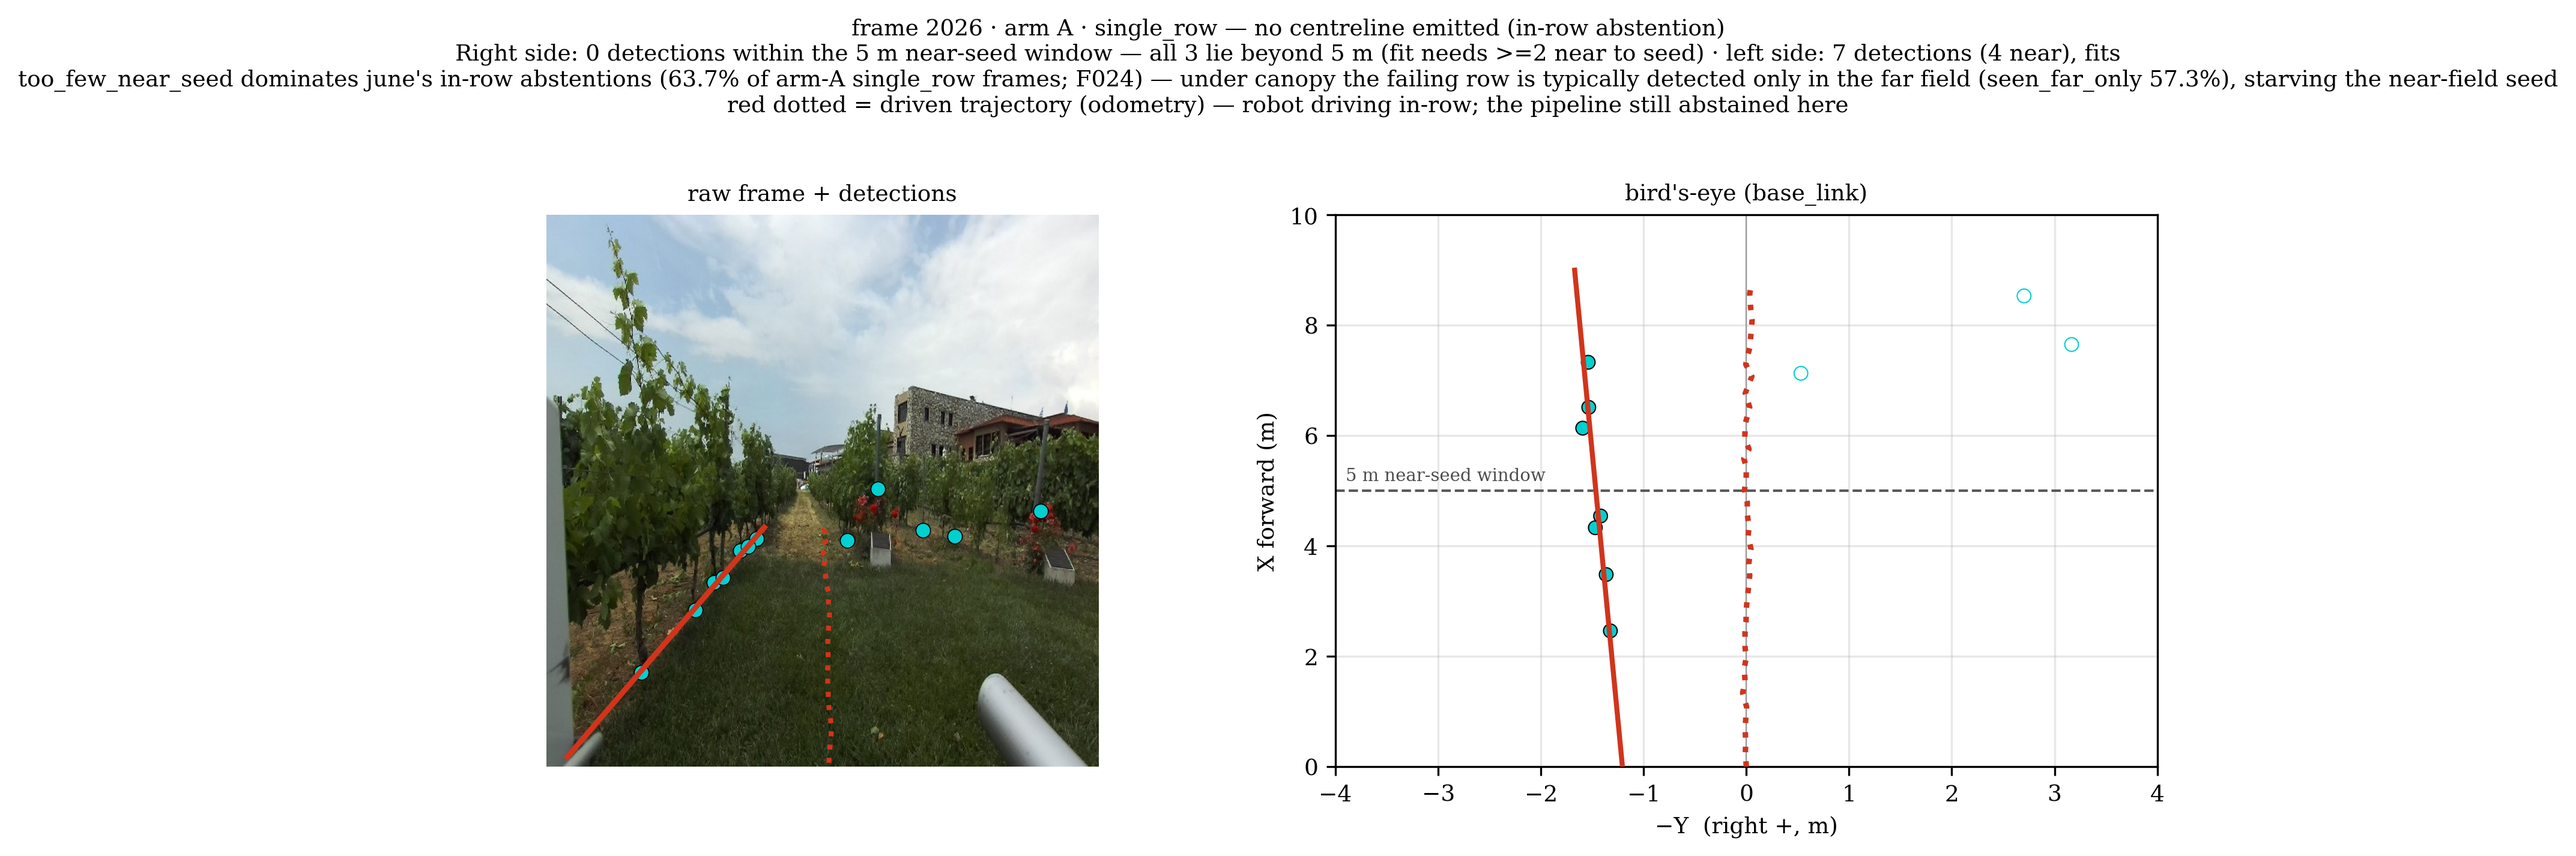
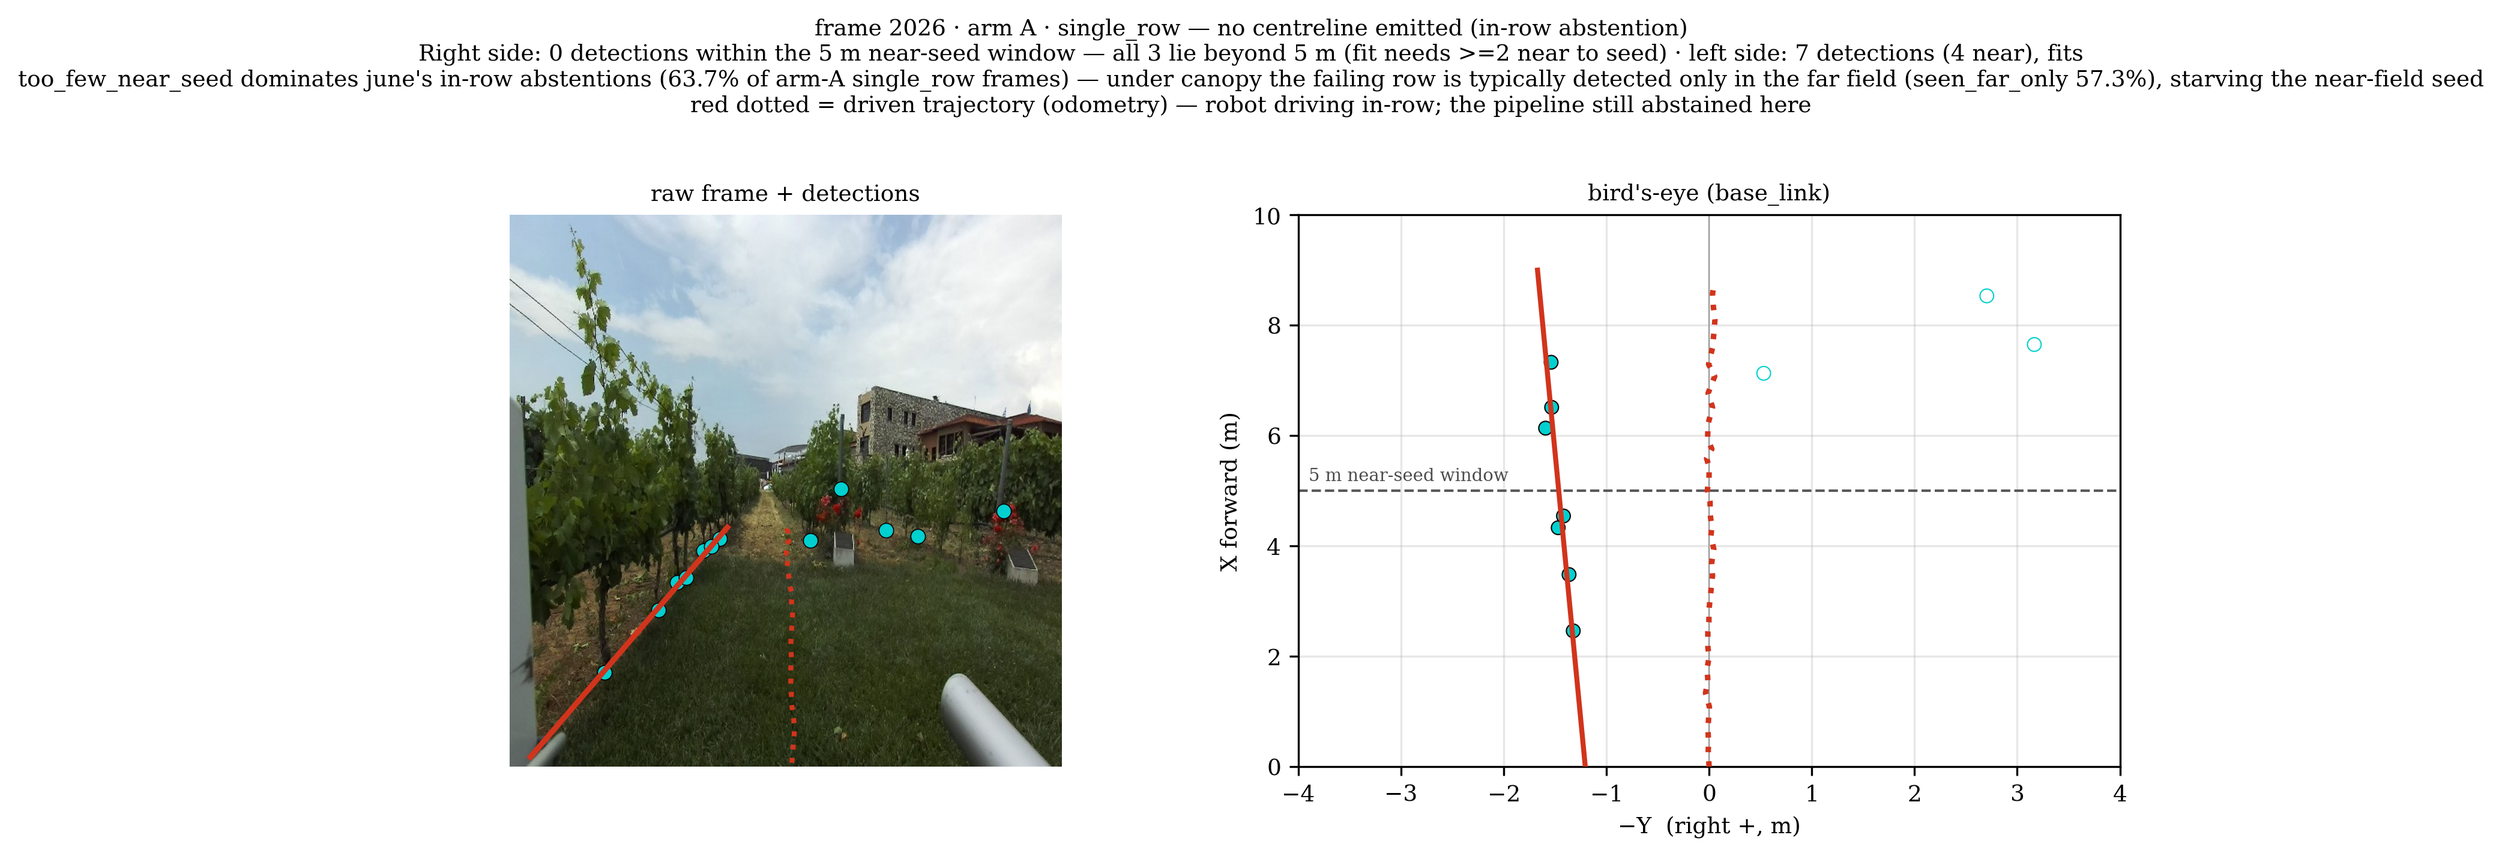
fix(figs): remove finding identifiers from rendered captions; add supplementary figures
Caption hygiene. Removes finding/decision identifiers from RENDERED figure text: F013, F017 + D047, F020 and F022 from the four cross-bag titles, and F024 from the may and june abstention captions. A figure must be readable without FINDINGS.md; the cross-references live in FIGURE_SPEC.md and in the module docstrings, which are unchanged. No remaining caption or footer carries a tag.

Three captions written when only two or three bags existed were also corrected against the four-bag data: turn is the highest-rate non-in-row category on every bag but is not ~80% throughout (76.0 / 80.6 / 36.5 / 56.4); the state gate's transition collapse is on june (48.0%), not april (70.1%); and march's all-pair GT-2 offset does not reproduce on any later bag (may resolves one pair only). Affected figures regenerated.
[…]

diff --git a/vineyard_nav/scripts/geometric/figures_supplementary.py b/vineyard_nav/scripts/geometric/figures_supplementary.py
@@ -1,0 +1,239 @@
+"""Supplementary cross-bag figures for the progress update / Notion pages.
+
+Three figures the locked per-bag set (figures.py) does not cover. They are written to the shared
+comparison directory, so the locked per-bag sets (15 figures, 13 on june) are left untouched.
+
+  python3 scripts/geometric/figures_supplementary.py --bags march april may june
+
+  1. cmp_model_outputs_<bag>.png   what each ARM ACTUALLY OUTPUTS on one scene: arm A's per-pixel
+                                   mask, arm B's instance masks, arm C's class-labelled instances.
+                                   figures.py fig2 compares the resulting centrelines; nothing showed
+                                   the raw outputs. Rendered on that bag's curated `arm_invariance`
+                                   frame (verified two_row on all three arms, privacy-screened).
+  2. cmp_season_contrast.png       a bare-vine frame beside a canopy frame, same arm, base points
+                                   drawn + counted -- makes the canopy base-point starvation visible.
+  3. cmp_coverage_trend.png        the seasonal headline, data-only from committed JSONs: two-row
+                                   coverage against the 70% viability floor, the pole contribution to
+                                   coverage (season-invariant), and base points per frame (collapses).
+
+Figures 1-2 need the model checkpoints (they re-run inference on a handful of frames); figure 3 is
+data-only and runs from the committed JSONs alone.
+"""
+from __future__ import annotations
+import sys, json, argparse
+from pathlib import Path
+
+import numpy as np
+import cv2
+import matplotlib
+matplotlib.use("Agg")
+import matplotlib.pyplot as plt
+
+PKG = Path(__file__).resolve().parents[2]
+sys.path.insert(0, str(PKG)); sys.path.insert(0, str(PKG / "scripts" / "geometric"))
+import cuda_preload  # noqa: E402,F401 — cuDNN cold-init guard; MUST precede torch (D049)
+import figures as FG  # noqa: E402  (model cache, styling, curated FRAMES registry)
+from bag_config import resolve  # noqa: E402
+
+SEED = 42
+SEASON = {"march": "bare-vine", "april": "bare-vine", "may": "canopy", "june": "canopy",
+          "july": "canopy", "september": "canopy"}
+C_BARE, C_CANOPY = "#4477aa", "#228833"
+OUT = PKG / "results/geometric/comparison/figures"
+
+
+def _out(name):
+    OUT.mkdir(parents=True, exist_ok=True)
+    return OUT / name
+
+
+def _frame(bag, key="arm_invariance"):
+    B = resolve(bag, "eligible")
+    fi = FG.FRAMES[bag][key]
+    img = cv2.imread(str(B["frames_dir"] / f"{fi:05d}.jpg"))
+    if img is None:
+        raise SystemExit(f"figures_supplementary: missing frame {fi} for bag {bag}")
+    return fi, img
+
+
+def _blend(img, mask, colour, alpha=0.45):
+    """Overlay a boolean mask on a BGR image in `colour` (matplotlib hex)."""
+    bgr = tuple(int(colour[i:i + 2], 16) for i in (5, 3, 1))    # hex RGB -> BGR
+    out = img.copy()
+    out[mask] = ((1 - alpha) * img[mask] + alpha * np.array(bgr)).astype(np.uint8)
+    return out
+
+
+def fig_model_outputs(bag):
+    """Arm A per-pixel mask | arm B instance masks | arm C class-labelled instances, one scene."""
+    fi, img = _frame(bag)
+    rgb = cv2.cvtColor(img, cv2.COLOR_BGR2RGB)
+    fig, ax = plt.subplots(1, 3, figsize=(11.4, 4.3))
+
+    # --- arm A: per-pixel binary mask (argmax over the U-Net class map) ---
+    _, net = FG._model("A", SEED)
+    x = FG._TF(image=rgb)["image"].unsqueeze(0).to(FG._DEV)
+    import torch
+    with torch.no_grad():
+        fg = (net(x).argmax(1)[0].cpu().numpy() == 1)
+    a_img = _blend(img, fg, FG.COL["binary"])
+    # how the mask becomes structures downstream: connected components >= UNET_MIN_AREA (pipeline step 2)
+    ncomp, _, stats, _ = cv2.connectedComponentsWithStats(fg.astype(np.uint8), 8)
+    nkeep = int(sum(1 for k in range(1, ncomp) if stats[k][4] >= FG.UNET_MIN_AREA))
+    ax[0].imshow(cv2.cvtColor(a_img, cv2.COLOR_BGR2RGB))
+    ax[0].set_title(f"A — U-Net binary\nper-pixel mask, no instance concept\n"
+                    f"{int(fg.sum()):,} px → {nkeep} components (≥{FG.UNET_MIN_AREA} px)", fontsize=8.5)
+
+    # --- arms B and C: per-instance masks ---
+    # distinct hues so the INSTANCE separation is visible; deliberately avoids the trunk-blue /
+    # pole-yellow of panel C, where colour is semantic rather than arbitrary
+    palette = ["#00d0d0", "#e05fd8", "#ff8c42", "#4cd964", "#a06cff", "#ff5c7a", "#00a3a3", "#c2185b"]
+    for k, arm in enumerate(("B", "C"), start=1):
+        _, m = FG._model(arm, SEED)
+        r = m.predict(source=img, conf=FG.CONF, quantize=16, device=0, verbose=False)[0]
+        vis = img.copy()
+        n = 0
+        if r.masks is not None and r.boxes is not None:
+            cls = r.boxes.cls.cpu().numpy().astype(int)
+            xy = r.boxes.xyxy.cpu().numpy()
+            area = (xy[:, 2] - xy[:, 0]) * (xy[:, 3] - xy[:, 1])
+            keep = area <= FG.BLOB_FRAC * FG.FRAME_PX * FG.FRAME_PX      # same 15% guard as the pipeline
+            for j, mk in enumerate(r.masks.data.cpu().numpy()):
+                if not keep[j]:
+                    continue
+                mm = cv2.resize(mk, (FG.FRAME_PX, FG.FRAME_PX)) > 0.5
+                col = FG.cls_col(int(cls[j])) if arm == "C" else palette[n % len(palette)]
+                vis = _blend(vis, mm, col)
+                n += 1
+        ax[k].imshow(cv2.cvtColor(vis, cv2.COLOR_BGR2RGB))
+        if arm == "B":
+            ax[k].set_title(f"B — YOLOv11-seg binary\nper-instance masks, one foreground class\n"
+                            f"{n} instances (arbitrary colour each)", fontsize=8.5)
+        else:
+            nt = int(((cls == 0) & keep).sum()); npl = int(((cls == 1) & keep).sum())
+            ax[k].set_title(f"C — YOLOv11-seg multiclass\nper-instance masks, class-labelled\n"
+                            f"{n} instances: {nt} trunk (blue) / {npl} pole (yellow)", fontsize=8.5)
+    for a in ax:
+        a.axis("off")
+    fig.suptitle(f"What each arm outputs — {bag} ({SEASON.get(bag, '?')}), frame {fi}", y=1.01)
+    fig.text(0.5, -0.02, "All three outputs are reduced to the same primitive downstream: one base point per structure "
+                         "(bottom-centre), projected to the ground plane. The row fit is class-agnostic.",
+             ha="center", va="top", fontsize=8, color="0.25")
+    fig.tight_layout()
+    p = _out(f"cmp_model_outputs_{bag}.png"); fig.savefig(p); plt.close(fig)
+    return p
+
+
+def _representative_frame(bag, coco, arm="C", seed=SEED, shortlist=60):
+    """An in-row two_row frame whose base-point count is closest to THIS BAG'S MEDIAN, and which
+    contains no identifiable people. The curated `anatomy` frames are best-case by construction, so
+    using them here would understate the seasonal difference — the median frame is the honest pick."""
+    B = resolve(bag, "eligible")
+    rows = []
+    for ln in Path(B["per_frame_csv"]).read_text().splitlines()[1:]:
+        a, s, i, cls, *_rest = ln.split(",")
+        if a == arm and int(s) == seed and cls == "two_row":
+            rows.append((int(i), int(_rest[5])))          # ... mL,mR,mc,n_base,adj,flags
+    med = float(np.median([n for _, n in rows]))
+    for i, n in sorted(rows, key=lambda r: (abs(r[1] - med), r[0]))[:shortlist]:
+        img = cv2.imread(str(B["frames_dir"] / f"{i:05d}.jpg"))
+        if img is None:
+            continue
+        r = coco.predict(source=img, conf=0.25, verbose=False)[0]
+        cl = r.boxes.cls.cpu().numpy().astype(int) if r.boxes is not None else []
+        if not any(int(k) == 0 for k in cl):              # COCO class 0 = person
+            return i, img, med
+    raise SystemExit(f"figures_supplementary: no person-free representative frame for {bag}")
+
+
+def fig_season_contrast(bare="march", canopy="june", arm="C"):
+    """One bare-vine frame beside one canopy frame, same arm, base points drawn and counted.
+    Frames are each bag's MEDIAN-detection frame (see _representative_frame), not a curated best case."""
+    from ultralytics import YOLO
+    coco = YOLO(str(PKG / "yolo11n-seg.pt"))
+    fig, ax = plt.subplots(1, 2, figsize=(9.6, 4.6))
+    for k, bag in enumerate((bare, canopy)):
+        fi, img, med = _representative_frame(bag, coco, arm)
+        base = FG.frontend(arm, SEED, img)
+        o = FG.fit_frame(base)
+        vis = img.copy()
+        for (uc, v, c) in base:
+            cv2.circle(vis, (int(uc), int(v)), 5, tuple(int(FG.cls_col(c)[i:i + 2], 16) for i in (5, 3, 1)), -1)
+            cv2.circle(vis, (int(uc), int(v)), 5, (20, 20, 20), 1)
+        ax[k].imshow(cv2.cvtColor(vis, cv2.COLOR_BGR2RGB)); ax[k].axis("off")
+        near = int(sum(1 for p in np.vstack([o["L"], o["R"]]) if p[0] <= FG.NEAR)) if len(base) else 0
+        ax[k].set_title(f"{bag} — {SEASON.get(bag,'?')}, frame {fi} (median-detection frame)\n"
+                        f"{len(base)} base points ({near} within the 5 m near-seed window) · bag median {med:.0f}",
+                        fontsize=9, color=(C_BARE if SEASON.get(bag) == "bare-vine" else C_CANOPY))
+    fig.suptitle(f"Two seasons, each at its typical frame — detections available to the row fit (arm {arm})", y=1.02)
+    fig.text(0.5, -0.02, "Canopy roughly halves the detections available to the fit (bag medians 32 -> 14). The rows stay visible; what collapses is the\n"
+                         "number of usable ground-contact points. Abstention then follows per SIDE — a frame is declined when either side alone lacks two near-field seeds.",
+             ha="center", va="top", fontsize=8, color="0.25")
+    fig.tight_layout()
+    p = _out("cmp_season_contrast.png"); fig.savefig(p); plt.close(fig)
+    return p
+
+
+def fig_coverage_trend(bags):
+    """Data-only: coverage vs the 70% floor, the pole contribution, and base points per frame."""
+    cov_a, cov_t, base_a, base_p = [], [], [], []
+    for b in bags:
+        c = json.load(open(resolve(b, "eligible")["out_dir"] / "config_analysis.json"))["cells"]
+        cov_a.append(c["agnostic"]["two_row_pct"]); cov_t.append(c["trunk_only"]["two_row_pct"])
+        base_a.append(c["agnostic"]["mean_base"]); base_p.append(c["pole_only"]["mean_base"])
+    x = np.arange(len(bags))
+    cols = [C_BARE if SEASON.get(b) == "bare-vine" else C_CANOPY for b in bags]
+    fig, ax = plt.subplots(1, 2, figsize=(11, 4.2))
+
+    # -- panel 1: coverage + the pole contribution, against the 70% floor --
+    ax[0].bar(x - 0.19, cov_t, 0.38, color=cols, alpha=0.45, edgecolor="0.3", lw=0.6, label="trunk-only")
+    ax[0].bar(x + 0.19, cov_a, 0.38, color=cols, edgecolor="0.3", lw=0.6, label="class-agnostic (trunk + pole)")
+    ax[0].axhline(70, ls="--", lw=1.2, color="#d1341c")
+    ax[0].text(-0.42, 71.2, "70% viability floor", color="#d1341c", fontsize=8, ha="left")
+    for i, (t, a) in enumerate(zip(cov_t, cov_a)):
+        ax[0].annotate(f"+{a - t:.1f} pp", (i, a + 1.5), ha="center", fontsize=8, color="0.25")
+    ax[0].set_xticks(x); ax[0].set_xticklabels([f"{b}\n{SEASON.get(b,'')}" for b in bags])
+    ax[0].set_ylabel("two-row coverage (%)"); ax[0].set_ylim(0, 95)
+    ax[0].set_title("Coverage falls below the deployability floor —\nbut the pole contribution does not change", fontsize=9)
+    ax[0].legend(fontsize=8, loc="upper right", framealpha=0.95); ax[0].grid(alpha=0.3, axis="y")
+
+    # -- panel 2: base points per frame --
+    ax[1].plot(x, base_a, "-o", color="0.25", label="all detections (class-agnostic)")
+    ax[1].plot(x, base_p, "-s", color=FG.COL["pole"], mec="0.3", label="pole detections only")
+    for i, v in enumerate(base_a):
+        ax[1].annotate(f"{v:.1f}", (i, v + 1.1), ha="center", fontsize=8, color="0.25")
+    for i, v in enumerate(base_p):
+        ax[1].annotate(f"{v:.1f}", (i, v - 2.2), ha="center", fontsize=8, color="0.45")
+    ax[1].set_xticks(x); ax[1].set_xticklabels([f"{b}\n{SEASON.get(b,'')}" for b in bags])
+    ax[1].set_ylabel("mean base points per frame"); ax[1].set_ylim(0, max(base_a) * 1.25)
+    ax[1].set_title("The mechanism: base-point availability collapses\n(pole visibility falls hardest)", fontsize=9)
+    ax[1].legend(fontsize=8); ax[1].grid(alpha=0.3)
+
+    fig.suptitle("What the canopy season costs — four bags, two seasons", y=1.02)
+    fig.text(0.5, -0.02, "Class structure contributes the same coverage gain in both seasons (+12.4 to +13.7 pp); what canopy "
+                         "removes is the detections themselves. Source: each bag's committed config_analysis.json.",
+             ha="center", va="top", fontsize=8, color="0.25")
+    fig.tight_layout()
+    p = _out("cmp_coverage_trend.png"); fig.savefig(p); plt.close(fig)
+    return p
+
+
+if __name__ == "__main__":
+    ap = argparse.ArgumentParser()
+    ap.add_argument("--bags", nargs="+", default=["march", "april", "may", "june"])
+    ap.add_argument("--only", default=None, choices=["outputs", "contrast", "trend"])
+    a = ap.parse_args()
+    print(f"[figures_supplementary] bags = {a.bags}")
+    if a.only in (None, "outputs"):
+        for b in a.bags:
+            print(f"  {fig_model_outputs(b).relative_to(PKG)}")
+    if a.only in (None, "contrast"):
+        bare = next((b for b in a.bags if SEASON.get(b) == "bare-vine"), None)
+        can = next((b for b in reversed(a.bags) if SEASON.get(b) == "canopy"), None)   # deepest canopy
+        if bare and can:
+            print(f"  {fig_season_contrast(bare, can).relative_to(PKG)}")
+        else:
+            print("  (skipped contrast: need one bare-vine and one canopy bag)")
+    if a.only in (None, "trend"):
+        print(f"  {fig_coverage_trend(a.bags).relative_to(PKG)}")
+    print("done.")

diff --git a/vineyard_nav/scripts/geometric/figures_compare.py b/vineyard_nav/scripts/geometric/figures_compare.py
@@ -86,8 +86,8 @@ def cmp_forest(bags):
     axL.axvspan(-RTK_MM, RTK_MM, color="#2166ac", alpha=0.06)
     axL.set_title("GT-1 lateral offset — indistinguishable on every bag\n(shaded = ±RTK floor 38 mm; dashed = 0)")
     panel(axR, "GT2", 1.0, "deg", None)
-    axR.set_title("GT-2 heading — march sub-noise-floor offset\ndoes not reproduce on april (red = CI excludes 0)")
-    fig.suptitle(f"F013 cross-arm paired differences · bags: {', '.join(bags)} · red = 95% CI excludes zero",
+    axR.set_title("GT-2 heading — march's all-pair offset\ndoes not reproduce on any later bag (red = CI excludes 0)")
+    fig.suptitle(f"Cross-arm paired differences · bags: {', '.join(bags)} · red = 95% CI excludes zero",
                  y=1.02, fontsize=10)
     fig.tight_layout()
     return _save(fig, "cmp_forest.png")
@@ -111,7 +111,7 @@ def cmp_tilt(bags):
     ax.axhline(0, color="k", lw=0.8)
     ax.set_xticks(x); ax.set_xticklabels(bags)
     ax.set_ylabel("row heading vs base_link (deg)")
-    ax.set_title("F017 sensor-common row tilt (post-D047 mid-pass anchors)\nboth sensors nonzero, same sign, agreeing on every bag")
+    ax.set_title("Camera vs LiDAR row tilt (mid-pass anchors)\nboth sensors nonzero, same sign, agreeing on every bag")
     ax.legend(); ax.grid(axis="y", alpha=0.3)
     fig.tight_layout()
     return _save(fig, "cmp_tilt.png")
@@ -135,8 +135,8 @@ def cmp_nonrow_distribution(bags):
         ax.grid(axis="y", alpha=0.3)
     axes[0].set_ylabel("spurious two_row (% of category)")
     axes[-1].legend()
-    fig.suptitle(f"F020 spurious two_row per non-in-row category · bags: {', '.join(bags)}\n"
-                 "turn reproduces (~80%, arm-consistent); stationary arm-divergence appears on april", y=1.04, fontsize=10)
+    fig.suptitle(f"Spurious two_row per non-in-row category · bags: {', '.join(bags)}\n"
+                 "turn is the highest-rate category on every bag; every category falls under canopy", y=1.04, fontsize=10)
     fig.tight_layout()
     return _save(fig, "cmp_nonrow_distribution.png")
 
@@ -158,7 +158,7 @@ def cmp_mitigation_closure(bags):
             ax.text(x[xi] + (j - (len(bags) - 1) / 2) * w, v + 0.6, f"{v:.0f}", ha="center", va="bottom", fontsize=7)
     ax.set_xticks(x); ax.set_xticklabels(CATS); ax.set_ylim(0, 108)
     ax.set_ylabel("state-gate rejection (% of spurious two_row)")
-    ax.set_title("F022 state-gate closure per category (arm-invariant)\ntransition collapses on april; stationary/turn hold")
+    ax.set_title("State-gate closure per category (arm-invariant)\nstationary holds at 100% on every bag; transition is weakest and collapses on june")
     ax.legend(title="bag"); ax.grid(axis="y", alpha=0.3)
     fig.tight_layout()
     return _save(fig, "cmp_mitigation_closure.png")

diff --git a/vineyard_nav/scripts/geometric/figures.py b/vineyard_nav/scripts/geometric/figures.py
@@ -572,7 +572,7 @@ FRAMES = {
         "stationary": 15053, "turn": 15165, "transition": 5584,
         "f023_triple": (5845, 15072, 8900), "turn_blind": 15577,
         "abstention_caption": ("Right side: 0 detections within the 5 m near-seed window — all 3 lie beyond 5 m (fit needs >=2 near to seed) · left side: 6 detections (4 near), fits\n"
-                               "too_few_near_seed dominates may's in-row abstentions (65.5% of arm-A single_row frames; F024) — under canopy the failing row is typically detected only in the far field (seen_far_only 62.7%), starving the near-field seed"),
+                               "too_few_near_seed dominates may's in-row abstentions (65.5% of arm-A single_row frames) — under canopy the failing row is typically detected only in the far field (seen_far_only 62.7%), starving the near-field seed"),
         "f022_footer": "State gate catches ~92% of spurious non-in-row outputs (100% stationary / ~88% turn / ~80% transition) at 0.4% in-row false-positive · arm-invariant per category · uses odometry only (speed, |v_y|, heading-rate) - no perception input.",
         "f023_footer": "Geometry filter catches ~56-62% via off-nominal geometry at ~8-9% in-row false-positive (canopy - fixed bare-vine thresholds don't transfer) · perception-based, odometry-free (deployment fallback) · cannot resolve clean-geometry turns.",
     },
@@ -603,7 +603,7 @@ FRAMES = {
         "stationary": 4063, "turn": None, "transition": 4052,
         "f023_triple": (3391, None, 4615), "turn_blind": None,
         "abstention_caption": ("Right side: 0 detections within the 5 m near-seed window — all 3 lie beyond 5 m (fit needs >=2 near to seed) · left side: 7 detections (4 near), fits\n"
-                               "too_few_near_seed dominates june's in-row abstentions (63.7% of arm-A single_row frames; F024) — under canopy the failing row is typically detected only in the far field (seen_far_only 57.3%), starving the near-field seed"),
+                               "too_few_near_seed dominates june's in-row abstentions (63.7% of arm-A single_row frames) — under canopy the failing row is typically detected only in the far field (seen_far_only 57.3%), starving the near-field seed"),
         "f022_footer": ("State gate catches ~65% of spurious non-in-row outputs (100% stationary / ~69% turn / only ~48% transition)\n"
                         "at 1.1% in-row false-positive · arm-similar (62-65%) · uses odometry only (speed, |v_y|, heading-rate)\n"
                         "blind to straight-line driving in a non-evaluated corridor — 66% of june's spurious fits · turn panel withheld"),
